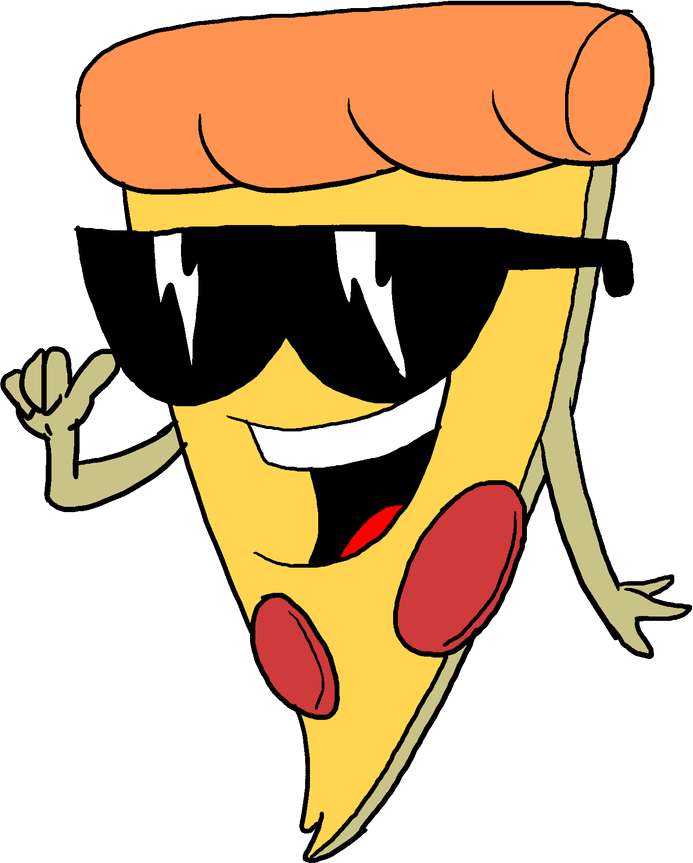
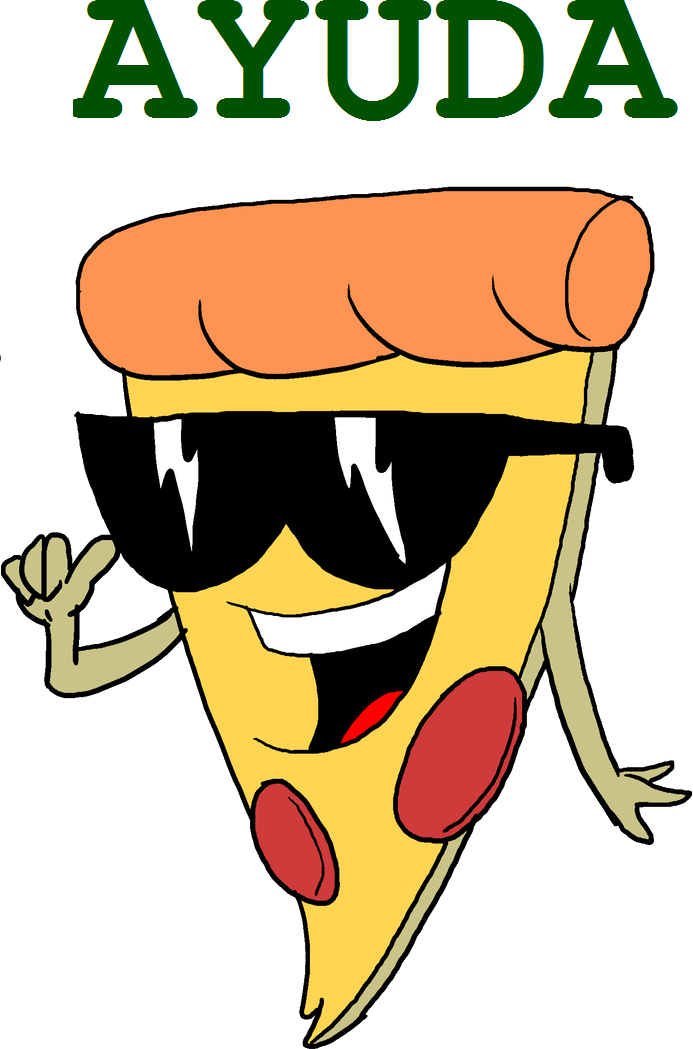
se retoco front login y configuro spring mvc

diff --git a/Pizzeria-FrontEnd/app/views/login.html b/Pizzeria-FrontEnd/app/views/login.html
@@ -21,68 +21,22 @@
 	  border-radius: 55px;
 	}
 </style>
-<!--
-<div class="row" style="border: thin solid black">
 
-	<div class="col-md-4" style="border: thin solid black">
-		<div class="row">
-			<div class="col-md-11 col-md-offset-1">
-				<br/><br/>
-				<img src="images/Logo.png" alt="Pizzeria">
-			</div>
-		</div>
-	</div>
-	<div class="col-md-4" style="border: thin solid black">
-		<img src="images/pizza.png" alt="Pizzeria" style="max-width:100%" >
-	</div>
-	<div class="col-md-4" style="border: thin solid black">
-		<div class="row">
-			<div class="col-md-2" style="border: thin solid black">
-			</div>
-			<div class="col-md-10" style="border: thin solid black">
-				<div class="botonAyuda">
-    				<font face="Comic Sans MS,arial,verdana" color="green" size="40px">AYUDA</font>
-    			</div>
-				<img src="images/ayudaPizza.png" alt="Pizzeria" style="max-width:50%">
-			</div>
-		</div>
-	</div>
-
-	<div class="col-md-6 col-md-offset-2" style="border: thin solid black">
-		</br>
-		<div class="input-group input-group-lg">
-  			<span class="input-group-addon" id="sizing-addon1">CODIGO NRO°</span>
-  			<input ng-model="usuario" type="text" class="form-control" placeholder="Usuario" aria-describedby="sizing-addon1">
-		</div>
-		</br>
-		<div class="input-group input-group-lg">
-  			<span class="input-group-addon" id="sizing-addon1">CONTRASEÑA</span>
-  			<input ng-model="contrasenia" type="password" class="form-control" placeholder="Contraseña" aria-describedby="sizing-addon1">
-		</div>
-	</div>
-
-	<div class="col-md-3" style="border: thin solid black">
-    	<button type="submit" class="btn btn-success btn-circle btn-lg botonLogin" ng-click="ingresar()">Ingresar</button>
-	</div>
-
-</div> -->
-
-<div class="row" style="border: thin solid black">
-	<div class="col-md-2 col-md-offset-1" style="border: thin solid black">
+<div class="row">
+	<div class="col-md-2 col-md-offset-1">
 		<br>
 		<img src="images/Logo.png" alt="Pizzeria">
 	</div>
-	<div class="col-md-4 col-md-offset-1" style="border: thin solid black">
+	<div class="col-md-4 col-md-offset-1">
 		<img src="images/pizza.png" alt="Pizzeria" style="max-width:100%" >
 	</div>
-	<div class="col-md-3 col-md-offset-1" style="border: thin solid black">
-		<font face="Comic Sans MS,arial,verdana" color="green" size="40px">AYUDA</font><br>
-		<img src="images/ayudaPizza.png" alt="Pizzeria" style="max-width:50%">
+	<div class="col-md-2 col-md-offset-1">
+		<img src="images/ayudaPizza.png" alt="Pizzeria" style="max-width:100%">
 	</div>
 </div>
 
-<div class="row" style="border: thin solid black">
-	<div class="col-md-6 col-md-offset-2" style="border: thin solid black">
+<div class="row">
+	<div class="col-md-6 col-md-offset-2">
 		<br>
 		<div class="input-group input-group-lg">
   			<span class="input-group-addon" id="sizing-addon1">CODIGO NRO°</span>
@@ -95,7 +49,7 @@
 		</div>
 	</div>
 
-	<div class="col-md-4" style="border: thin solid black">
+	<div class="col-md-4">
     	<button type="submit" class="btn btn-success btn-circle btn-lg botonLogin" ng-click="ingresar()">Ingresar</button>
 	</div>
 </div>

diff --git a/Pizzeria-FrontEnd/app/index.html b/Pizzeria-FrontEnd/app/index.html
@@ -62,7 +62,7 @@
 
     <div ng-view=""></div>
 
-
+    </br></br>
     <div class="footer">
       <div class="container" align="center">
         <span class="glyphicon glyphicon-user"></span>
